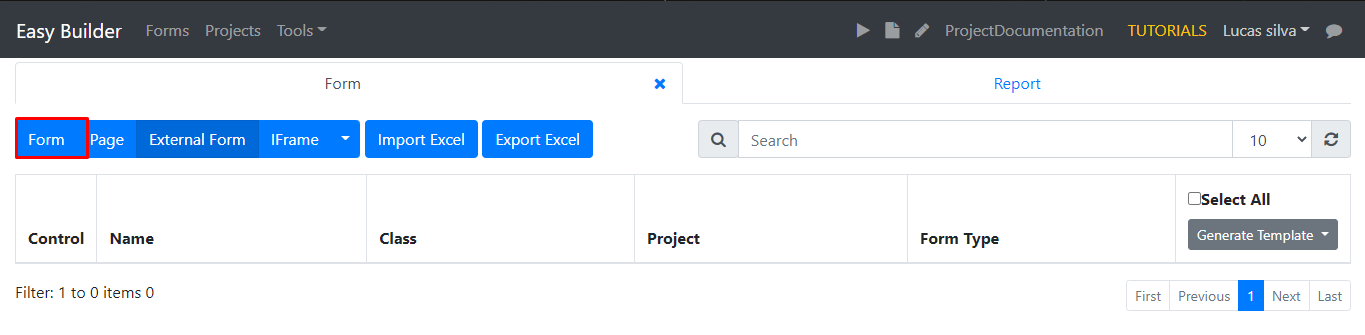
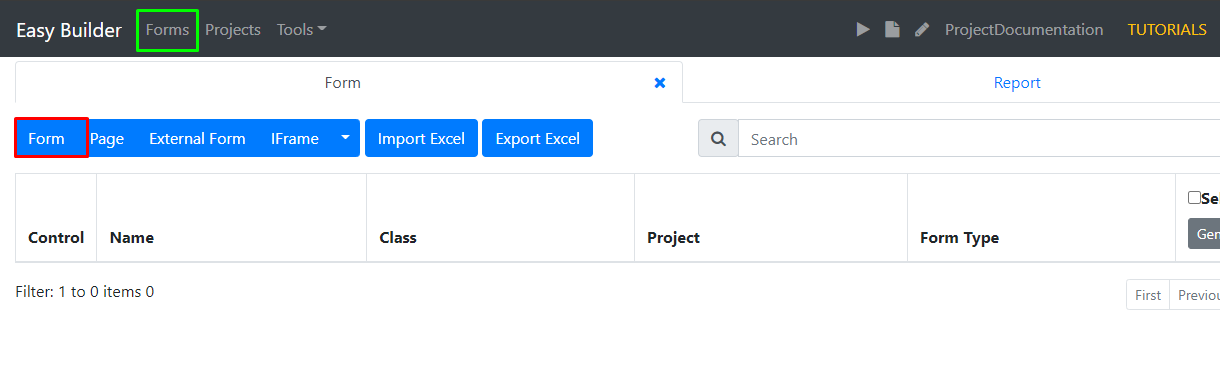
teste

diff --git a/portuguese.md b/portuguese.md
@@ -109,11 +109,11 @@ e clique no botão _Save & Close_
 
 Agora você estará na sua página inicial com as três abas principais, nesse caso automaticamente será a aba “Project”. 
 
-Então, voltará na tela inicial com as duas abas principais “Form” e “Report” (que significa “Formulário” e “Relatório” respectivamente), agora clique na aba “Form”:
+Então, voltará na tela inicial com as duas abas principais “Form” e “Report” (que significa “Formulário” e “Relatório” respectivamente), agora clique na aba “Form” que esta marcada em verde:
     
 ![image](./BuilderImages/form.png)
     
-E agora clique no botão _Form_, que está marcado na imagem acima, automaticamente irá abrir uma nova aba no seu navegador.
+E agora clique no botão _Form_, que está marcado em vermelho na imagem acima, automaticamente irá abrir uma nova aba no seu navegador.
 <img src="https://user-images.githubusercontent.com/81401104/114773410-694eac80-9d45-11eb-9582-bb667046a328.png">
 
 Nessa nova página, no campo do “Form Title” escreva o título do seu formulário (pode ser “FormulárioTeste”).
